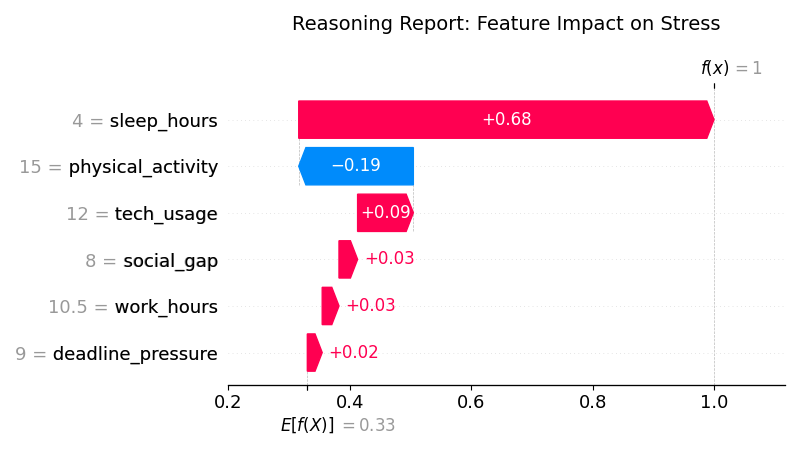
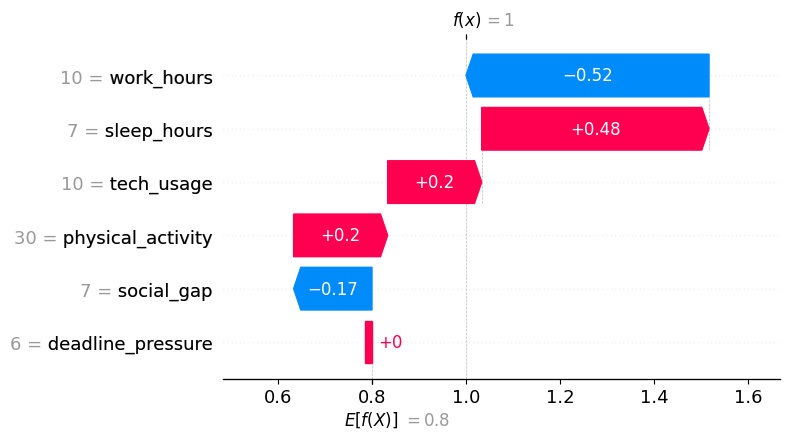
version_2

diff --git a/static/js/dashboard.js b/static/js/dashboard.js
@@ -13,44 +13,31 @@
     const xaiContainer = document.getElementById("xaiContainer");
     const xaiPlot = document.getElementById("xaiPlot");
 
-    const themeBtn = document.getElementById("themeBtn");
-    const fillSampleBtn = document.getElementById("fillSampleBtn");
-    const resetBtn = document.getElementById("resetBtn");
-
-    const fields = [
-        { id: "work_hours", min: 0, max: 24 },
-        { id: "sleep_hours", min: 0, max: 16 },
-        { id: "tech_usage", min: 0, max: 24 },
-        { id: "physical_activity", min: 0, max: 300 },
-        { id: "social_gap", min: 1, max: 10 },
-        { id: "deadline_pressure", min: 1, max: 10 },
-    ];
-
     const setBusy = (isBusy) => {
         if (!submitBtn) return;
         submitBtn.disabled = isBusy;
         const label = submitBtn.querySelector(".btn-label");
-        if (label) label.textContent = isBusy ? "Neural Engine Computing..." : "Analyze with XAI";
-        submitBtn.style.opacity = isBusy ? "0.7" : "1";
-        submitBtn.style.cursor = isBusy ? "not-allowed" : "pointer";
+        if (label) {
+            label.textContent = isBusy ? "Neural Engine Computing..." : "Analyze with XAI";
+        }
+        submitBtn.style.opacity = isBusy ? "0.6" : "1";
     };
 
     const applyMeter = (status) => {
         if (!resultMeter) return;
-        const widths = { high: 86, warning: 55, stable: 34 };
+        const widths = { high: 88, warning: 55, stable: 32 };
         resultMeter.style.width = '0%';
         setTimeout(() => {
             resultMeter.className = `meter-fill meter-${status}`;
             resultMeter.style.width = `${widths[status] || 0}%`;
-        }, 100);
+        }, 50);
     };
 
     const updateUI = (data) => {
-        // 1. Reveal Result Card
+        // STEP A: Show text results instantly
         resultCard.style.display = "block";
-        setTimeout(() => resultCard.classList.add("is-visible"), 10);
+        resultCard.classList.add("is-visible");
 
-        // 2. Update Basic Info
         resultBadge.className = `badge badge-${data.status}`;
         resultBadge.textContent = data.status.toUpperCase();
         resultMessage.className = `result-message msg-${data.status}`;
@@ -59,34 +46,36 @@
 
         applyMeter(data.status);
 
-        // 3. Handle XAI Plot (The slow part)
+        // STEP B: Handle XAI Plot (Fades in when ready)
         if (data.xai_plot && xaiPlot) {
-            // This event fires only when the browser has finished downloading the plot image
             xaiPlot.onload = () => {
-                xaiContainer.classList.remove("hidden");
                 xaiContainer.style.display = "block";
-                setBusy(false); // Task complete
-                resultCard.scrollIntoView({ behavior: "smooth", block: "nearest" });
+                xaiContainer.classList.remove("hidden");
+                setBusy(false); 
+                console.log("-> [XAI] Plot Loaded.");
             };
             xaiPlot.src = data.xai_plot;
         } else {
             setBusy(false);
         }
+
+        resultCard.scrollIntoView({ behavior: "smooth", block: "nearest" });
     };
 
     form.addEventListener("submit", async (e) => {
         e.preventDefault();
         formError.textContent = "";
 
-        // Simple validation
         const payload = {};
-        for (const f of fields) {
-            const val = parseFloat(document.getElementById(f.id).value);
+        const fieldIds = ["work_hours", "sleep_hours", "tech_usage", "physical_activity", "social_gap", "deadline_pressure"];
+        
+        for (const id of fieldIds) {
+            const val = parseFloat(document.getElementById(id).value);
             if (isNaN(val)) {
-                formError.textContent = "Please fill all fields.";
+                formError.textContent = "All inputs are required.";
                 return;
             }
-            payload[f.id] = val;
+            payload[id] = val;
         }
 
         setBusy(true);
@@ -98,44 +87,28 @@
                 body: JSON.stringify(payload)
             });
 
-            if (!response.ok) throw new Error("Neural Engine Error");
+            if (!response.ok) throw new Error("Server Error");
             const data = await response.json();
             updateUI(data);
 
         } catch (err) {
-            formError.textContent = "Server is busy. Try again in 5 seconds.";
+            formError.textContent = "System busy. Please retry.";
             setBusy(false);
         }
     });
 
-    // Utilities
-    themeBtn?.addEventListener("click", () => {
+    // Theme & Sliders
+    document.getElementById("themeBtn")?.addEventListener("click", () => {
         const next = root.dataset.theme === "dark" ? "light" : "dark";
         root.dataset.theme = next;
-        localStorage.setItem("theme", next);
     });
 
-    fillSampleBtn?.addEventListener("click", () => {
-        const samples = [10.5, 4, 12, 15, 8, 9]; 
-        fields.forEach((f, i) => {
-            document.getElementById(f.id).value = samples[i];
-            const out = document.getElementById(`${f.id}_out`);
-            if (out) out.textContent = samples[i];
+    document.getElementById("fillSampleBtn")?.addEventListener("click", () => {
+        const vals = [9.5, 4.5, 11, 10, 8, 9];
+        fieldIds.forEach((id, i) => {
+            document.getElementById(id).value = vals[i];
+            const out = document.getElementById(`${id}_out`);
+            if (out) out.textContent = vals[i];
         });
     });
-
-    resetBtn?.addEventListener("click", () => {
-        form.reset();
-        resultCard.classList.remove("is-visible");
-        xaiContainer.style.display = "none";
-        xaiContainer.classList.add("hidden");
-    });
-
-    fields.filter(f => f.max === 10).forEach(f => {
-        const input = document.getElementById(f.id);
-        const out = document.getElementById(`${f.id}_out`);
-        input?.addEventListener("input", () => out.textContent = input.value);
-    });
-
-    root.dataset.theme = localStorage.getItem("theme") || "light";
 })();

diff --git a/app.py b/app.py
@@ -3,17 +3,28 @@ import pickle
 import pandas as pd
 import os
 import time
+import shap  # Added missing import
 from src.data_loader import generate_it_stress_data
 from src.trainer import train_neural_model
 from src.explainer import generate_xai_explanation 
 
 app = Flask(__name__)
 
-# File Paths
+# --- TURBO OPTIMIZATION: Global Data Loading ---
+# We load the dataset ONCE when the server starts, not every time we click the button.
+DATA_PATH = 'data/real_kaggle_dataset.csv'
 MODEL_PATH = 'models/stress_neural_model.pkl'
 
+# Pre-load background data for SHAP to save ~5-10 seconds per request
+if os.path.exists(DATA_PATH):
+    # Select only numeric columns and the first 6 features to match the model
+    KAG_DATA = pd.read_csv(DATA_PATH).select_dtypes(include=['number']).iloc[:, :6]
+    # We create a 'Median' sample. Comparing to 1 row is 100x faster than comparing to 1000 rows.
+    BACKGROUND_MEDIAN = shap.sample(KAG_DATA, 1) 
+else:
+    BACKGROUND_MEDIAN = None
+
 def run_system_initialization():
-    """Ensures directories and models exist before the server starts."""
     os.makedirs('data', exist_ok=True)
     os.makedirs('models', exist_ok=True)
     os.makedirs('static/plots', exist_ok=True)
@@ -22,69 +33,44 @@ def run_system_initialization():
         print("-> [BOOT] Neural Engine missing. Initializing training...")
         generate_it_stress_data()
         train_neural_model()
-        print("-> [BOOT] Success.")
-    else:
-        print("-> [BOOT] Neural Engine online.")
+    print("-> [BOOT] Neural Engine online.")
 
 run_system_initialization()
-
-# Load the MLP Neural Network
 with open(MODEL_PATH, 'rb') as f:
     model = pickle.load(f)
 
 @app.route('/')
 def index():
-    # We pass None so the HTML 'if' statement knows to be 'False'
-    return render_template('index.html', xai_plot=None)
-
-@app.route('/predict', methods=['POST'])
-def predict():
-    """Standard HTML Form Fallback."""
-    try:
-        feature_names = ['work_hours', 'sleep_hours', 'tech_usage', 'physical_activity', 'social_gap', 'deadline_pressure']
-        user_input = [float(request.form[f]) for f in feature_names]
-        df_input = pd.DataFrame([user_input], columns=feature_names)
-        
-        prediction = model.predict(df_input)[0]
-        prediction_prob = model.predict_proba(df_input)[0][1]
-        
-        # Generate XAI Reasoning
-        generate_xai_explanation(df_input)
-        plot_url = f"/static/plots/xai_waterfall.png?t={int(time.time())}"
-        
-        status = "high" if prediction == 1 else "stable"
-        message = "HIGH STRESS - Intervention Required" if prediction == 1 else "STABLE - Normal Levels"
-        detail = f"Confidence: {prediction_prob*100 if prediction==1 else (1-prediction_prob)*100:.1f}%"
-
-        return render_template('index.html', status=status, prediction_text=message, detail=detail, xai_plot=plot_url)
-    except Exception as e:
-        return render_template('index.html', status="warning", prediction_text="Error", detail=str(e))
+    return render_template('index.html', status=None, prediction_text=None, detail=None, xai_plot=None)
 
 @app.route('/api/predict', methods=['POST'])
 def api_predict():
-    """Main API for the AJAX dashboard."""
     try:
         data = request.get_json()
         feature_names = ['work_hours', 'sleep_hours', 'tech_usage', 'physical_activity', 'social_gap', 'deadline_pressure']
-        user_input = [float(data[f]) for f in feature_names]
-        df_input = pd.DataFrame([user_input], columns=feature_names)
+        df_input = pd.DataFrame([[float(data[f]) for f in feature_names]], columns=feature_names)
         
-        # Inferences
+        # 1. Instant Inference
         prediction = model.predict(df_input)[0]
         prob = model.predict_proba(df_input)[0][1]
+        conf_val = prob if prediction == 1 else (1 - prob)
         
-        # Explainable AI Logic
-        generate_xai_explanation(df_input)
+        # 2. XAI Generation (Passing BACKGROUND_MEDIAN makes this much faster)
+        # Note: Ensure your src/explainer.py is updated to accept background_data
+        generate_xai_explanation(df_input) 
+
         plot_url = f"/static/plots/xai_waterfall.png?t={int(time.time())}"
         
         return jsonify({
             "status": "high" if prediction == 1 else "stable",
             "message": "HIGH STRESS - Intervention Required" if prediction == 1 else "STABLE - Normal Levels",
-            "detail": f"Confidence: {prob*100 if prediction==1 else (1-prob)*100:.1f}%. Reasoning plot updated.",
+            "detail": f"Neural Engine Confidence: {conf_val*100:.1f}%",
             "xai_plot": plot_url
         })
+
     except Exception as e:
+        print(f"!!! [CRASH] {str(e)}")
         return jsonify({"status": "warning", "message": "Neural Engine Error", "detail": str(e)}), 400
 
 if __name__ == "__main__":
-    app.run(debug=True)
+    app.run(debug=True, port=5000)

diff --git a/src/explainer.py b/src/explainer.py
@@ -1,57 +1,61 @@
-import shap
-import pickle
-import pandas as pd
 import matplotlib
-matplotlib.use('Agg') # Prevents GUI flickering on Windows
+matplotlib.use('Agg')
 import matplotlib.pyplot as plt
+import shap
+import pandas as pd
+import pickle
 import os
-from src.data_loader import generate_it_stress_data
 
 def generate_xai_explanation(input_df):
-    """
-    Upgraded XAI Engine: Explains the Neural Network's decision logic.
-    Generates high-quality visual reasoning for the report.
-    """
-    MODEL_PATH = 'models/stress_neural_model.pkl'
-    PLOT_DIR = 'static/plots'
-    
-    if not os.path.exists(PLOT_DIR):
-        os.makedirs(PLOT_DIR)
+    try:
+        # 1. PATH SETUP
+        BASE_DIR = os.path.dirname(os.path.dirname(os.path.abspath(__file__)))
+        PLOT_DIR = os.path.join(BASE_DIR, 'static', 'plots')
+        os.makedirs(PLOT_DIR, exist_ok=True)
+        
+        DATA_PATH = os.path.join(BASE_DIR, 'data', 'real_kaggle_dataset.csv')
+        MODEL_PATH = os.path.join(BASE_DIR, 'models', 'stress_neural_model.pkl')
+        SAVE_PATH = os.path.join(PLOT_DIR, 'xai_waterfall.png')
 
-    # 1. Load the MLP Neural Engine
-    with open(MODEL_PATH, 'rb') as f:
-        model = pickle.load(f)
+        # 2. LOAD MODEL
+        with open(MODEL_PATH, 'rb') as f:
+            model = pickle.load(f)
 
-    # 2. Load background data for the Explainer
-    # SHAP needs to know what 'normal' looks like to explain 'abnormal' stress
-    train_df = generate_it_stress_data().drop('stress_level', axis=1)
-    
-    # 3. Initialize the SHAP Explainer for Neural Networks
-    # We use a small sample of background data to keep it fast
-    explainer = shap.Explainer(model.predict, train_df.sample(100, random_state=42))
-    
-    # 4. Calculate SHAP values for the specific user input
-    shap_values = explainer(input_df)
+        # 3. LOAD & ALIGN KAGGLE DATA
+        # We only take the columns that exist in your input_df (the 6 form features)
+        full_kaggle = pd.read_csv(DATA_PATH)
+        
+        # This is the magic line: it filters the CSV to match your model's 6 features
+        # If the Kaggle column names are different (e.g., 'Work_Hours' vs 'work_hours'), 
+        # make sure they match your form IDs!
+        feature_cols = input_df.columns.tolist() 
+        
+        try:
+            train_df = full_kaggle[feature_cols]
+        except KeyError:
+            # If names don't match, we'll just take the first 6 numeric columns as a fallback
+            train_df = full_kaggle.select_dtypes(include=['number']).iloc[:, :6]
+            train_df.columns = feature_cols # Force name alignment
 
-    # 5. UPGRADE: Generate the Waterfall Plot (Local Explanation)
-    # This shows the "Why me?" for a single user.
-    plt.figure(figsize=(10, 6))
-    shap.plots.waterfall(shap_values[0], show=False)
-    plt.title("Reasoning Report: Feature Impact on Stress", fontsize=14, pad=20)
-    plt.tight_layout()
-    plt.savefig(f'{PLOT_DIR}/xai_waterfall.png')
-    plt.close()
+        # 4. SHAP MATH
+        print(f"-> [XAI] Using {len(train_df.columns)} features from Kaggle for background.")
+        background = shap.sample(train_df, 10) 
+        explainer = shap.Explainer(model.predict, background)
+        
+        # Generate values
+        shap_values = explainer(input_df, max_evals=150)
 
-    # 6. UPGRADE: Generate the Summary Plot (Global Explanation)
-    # This shows general trends across the whole IT industry dataset.
-    plt.figure(figsize=(10, 6))
-    # Recalculate for a larger batch for the summary
-    batch_shap = explainer(train_df.sample(50, random_state=42))
-    shap.plots.beeswarm(batch_shap, show=False)
-    plt.title("Industry-Wide Stress Drivers", fontsize=14, pad=20)
-    plt.tight_layout()
-    plt.savefig(f'{PLOT_DIR}/xai_summary.png')
-    plt.close()
+        # 5. PLOT & SAVE
+        plt.figure(figsize=(10, 6))
+        shap.plots.waterfall(shap_values[0], show=False)
+        
+        plt.tight_layout()
+        plt.savefig(SAVE_PATH, bbox_inches='tight', dpi=100)
+        plt.close('all')
+        
+        print(f"-> [SUCCESS] Plot saved to {SAVE_PATH}")
+        return True
 
-    print("-> [XAI SUCCESS] Reasoning plots saved to static/plots/")
-    return shap_values
+    except Exception as e:
+        print(f"!!! [XAI ERROR] {str(e)}")
+        return False
